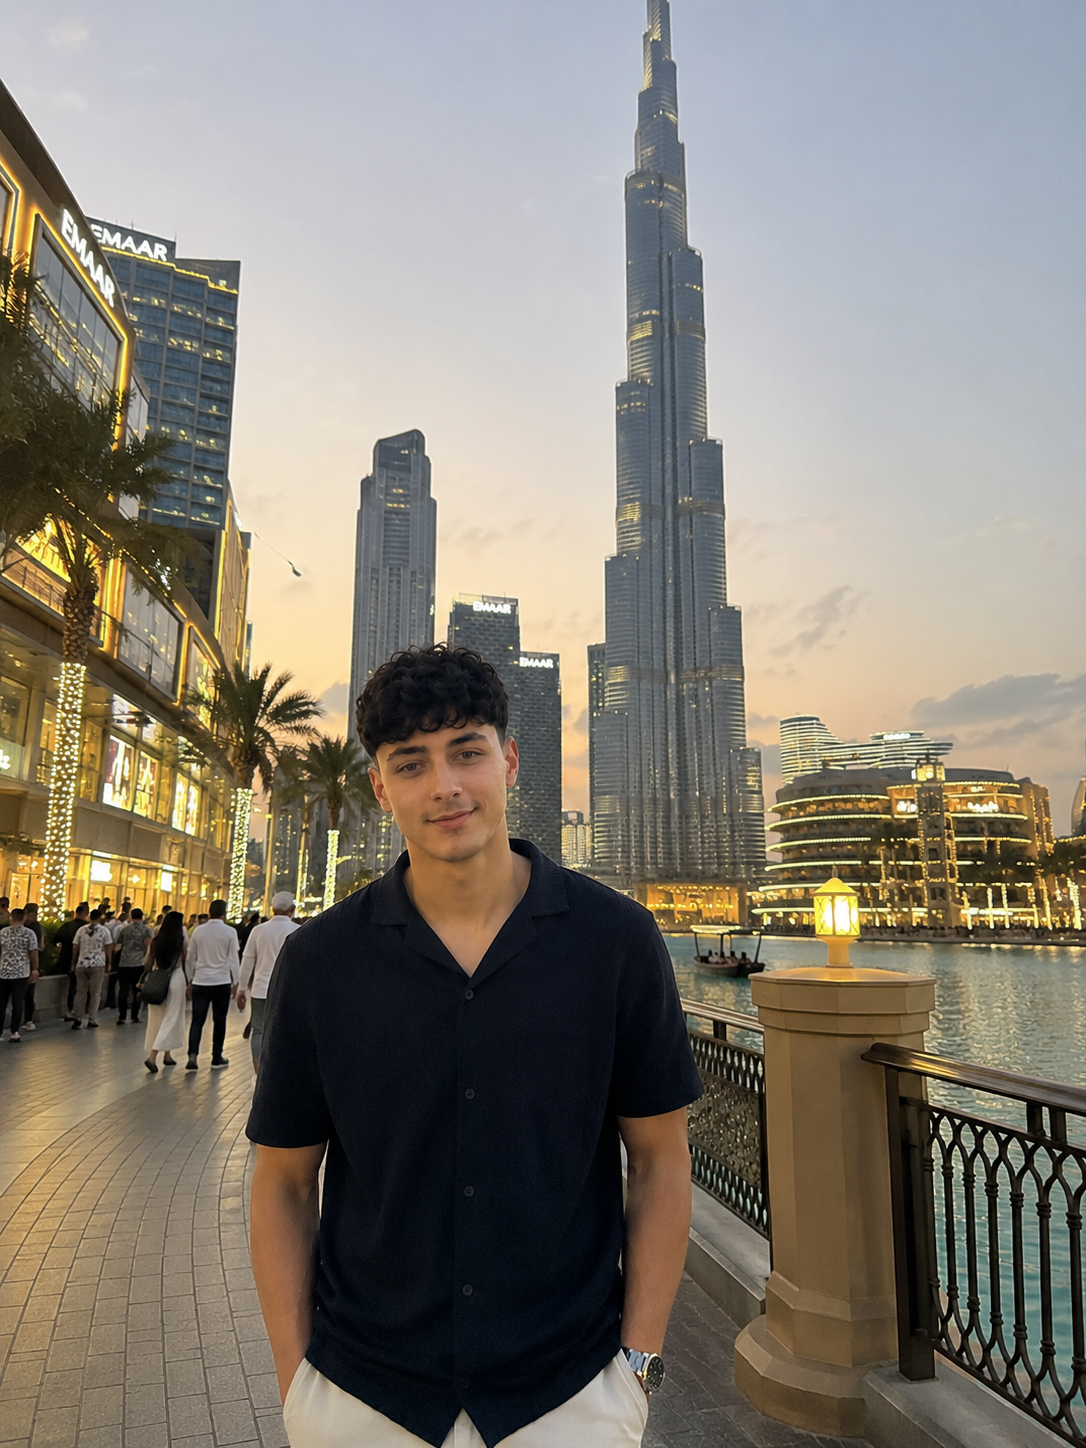
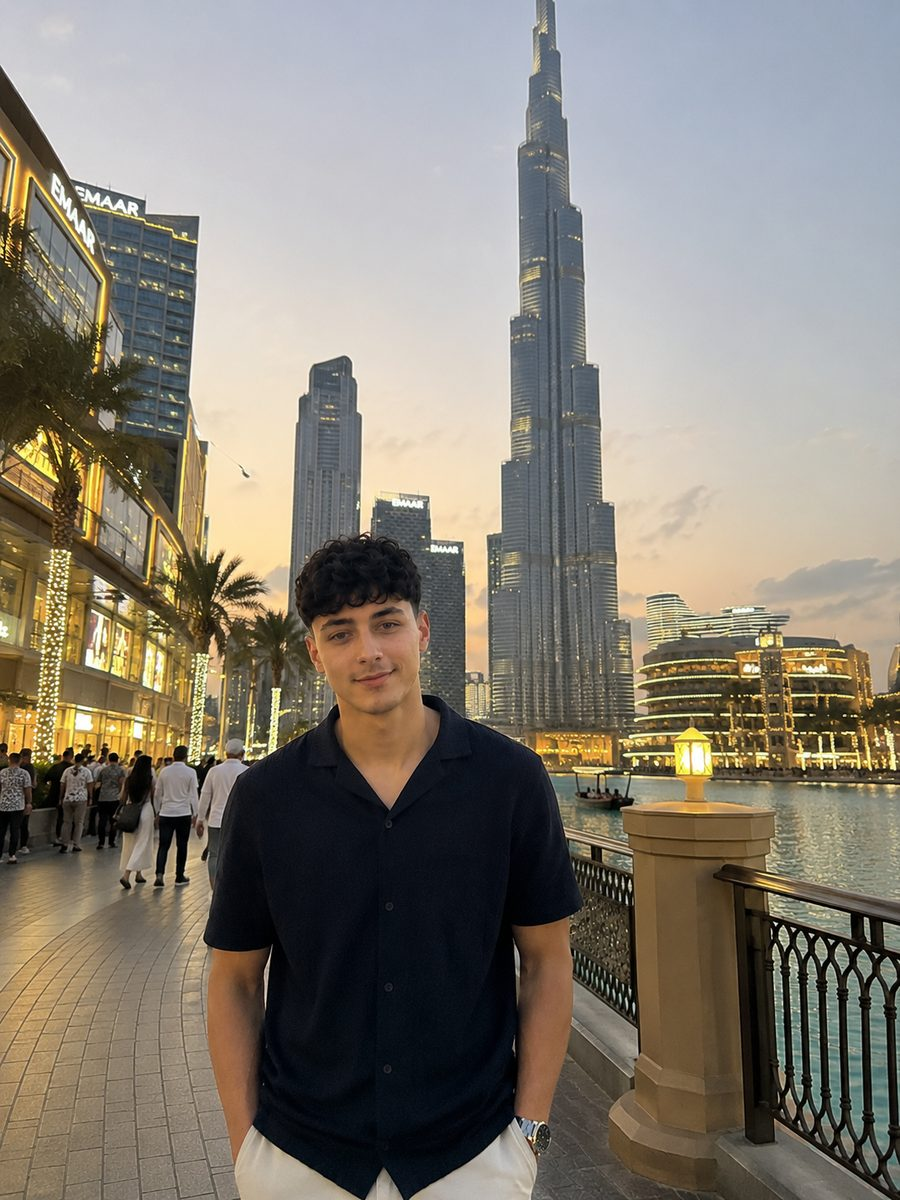
Sitemap und robots.txt; Datenschutz: Google-Anmeldung offengelegt; Team-Fotos optimiert; Versionskollision behoben
sitemap.xml (neu):
Sieben oeffentliche Seiten mit sauberen Adressen und den echten
Aenderungsdaten aus der Git-Historie. Nicht enthalten: /login,
/dashboard, /admin/, /mcs/ (interne Bereiche) sowie /impressum,
/datenschutz und /agb - diese tragen ein noindex im Kopf, und eine
Seite gleichzeitig anzumelden und auf noindex zu setzen meldet die
Search Console als Fehler.
Geprueft, dass die .htaccess-Regel, die ".html" anhaengt, die Datei
nicht anfasst - sie greift nur bei vorhandener .html-Datei.

robots.txt (neu): sperrt /admin/, /mcs/, /dashboard, /login und /api/
und verweist auf die Sitemap.

KORREKTUR an der Datenschutzerklaerung:
Beim Pruefen der .htaccess fiel auf, dass accounts.google.com erlaubt
ist. Nachgesehen: Auf der Anmeldeseite laeuft "Mit Google anmelden" mit
echter Client-ID, und das Google-Skript laedt bereits beim Aufruf der
Seite - auch ohne Klick. Google erhaelt dabei die IP-Adresse.
Meine Formulierung "ausser dem KI-Anbieter bekommt kein Dritter Daten"
war damit falsch. Behoben durch einen neuen Abschnitt 6 "Anmeldung mit
Google" und eine praezise Zusammenfassung in Abschnitt 8; im
Cookie-Hinweis ist die Aussage "keine Weitergabe an Dritte" gestrichen.
Per Messung belegt: Startseite und Preisseite kontaktieren keinen
Fremdanbieter, nur /login ruft accounts.google.com auf.
Ausserdem erlaubte die Sicherheitsregel weiterhin Google Fonts, obwohl
die Schrift lokal liegt - entfernt (font-src 'self').

Team-Fotos optimiert:
[…]

diff --git a/index.html b/index.html
@@ -6,7 +6,7 @@
   <title>masesites | Persönliche Websites &amp; KI-Bots aus der Schweiz</title>
   <meta name="description" content="masesites baut personalisierte, professionelle Websites für Firmen und Privatpersonen. Jede Branche, jeder Stil, auf Wunsch mit KI-Bot.">
   <link rel="icon" href="assets/img/favicon.svg" type="image/svg+xml">
-  <link rel="stylesheet" href="assets/css/style.css?v=48">
+  <link rel="stylesheet" href="assets/css/style.css?v=49">
 </head>
 <body>
   <script src="assets/js/sanft.js?v=1"></script>

diff --git a/preise.html b/preise.html
@@ -6,7 +6,7 @@
   <title>Preise | masesites</title>
   <meta name="description" content="Alle Preise auf einen Blick: neue Website ab CHF 750.-, Ueberarbeitung ab CHF 250.-, Webapp ab CHF 3500.-, KI-Assistent ab CHF 200.-. Feste Offerte vor Projektstart.">
   <link rel="icon" href="assets/img/favicon.svg" type="image/svg+xml">
-  <link rel="stylesheet" href="assets/css/style.css?v=48">
+  <link rel="stylesheet" href="assets/css/style.css?v=49">
   <link rel="stylesheet" href="assets/css/preisliste.css?v=3">
 </head>
 <body>

diff --git a/leistungen.html b/leistungen.html
@@ -5,7 +5,7 @@
   <meta name="viewport" content="width=device-width, initial-scale=1.0">
   <title>Leistungen – masesites</title>
   <meta name="description" content="Website, Überarbeitung, Webapp oder KI-Bot: Wähl eine Leistung und die Seite zeigt dir ihre Welt – mit Beispielen, Merkmalen und fixen Preisen.">
-  <link rel="stylesheet" href="assets/css/style.css?v=48">
+  <link rel="stylesheet" href="assets/css/style.css?v=49">
   <link rel="stylesheet" href="assets/css/leistungen.css?v=11">
 </head>
 <body>

diff --git a/ueber-uns.html b/ueber-uns.html
@@ -6,7 +6,7 @@
   <title>Über uns | masesites</title>
   <meta name="description" content="Die Menschen hinter deiner Website: masesites ist ein kleines Schweizer Team, das Websites für Firmen und Privatpersonen baut und designt.">
   <link rel="icon" href="assets/img/favicon.svg" type="image/svg+xml">
-  <link rel="stylesheet" href="assets/css/style.css?v=48">
+  <link rel="stylesheet" href="assets/css/style.css?v=49">
 </head>
 <body>
   <script src="assets/js/sanft.js?v=1"></script>

diff --git a/beispiele.html b/beispiele.html
@@ -6,7 +6,7 @@
   <title>Beispiele | masesites</title>
   <meta name="description" content="So kann deine Website aussehen: fünf Branchen, fünf komplett verschiedene Stile – vom dunklen Restaurant-Look bis zum cleanen Onlineshop. Live ausprobierbar auf der Startseite.">
   <link rel="icon" href="assets/img/favicon.svg" type="image/svg+xml">
-  <link rel="stylesheet" href="assets/css/style.css?v=48">
+  <link rel="stylesheet" href="assets/css/style.css?v=49">
 </head>
 <body>
 

diff --git a/kontakt.html b/kontakt.html
@@ -6,7 +6,7 @@
   <title>Kontakt | masesites</title>
   <meta name="description" content="Erzähl uns von deinem Projekt: Website, KI-Bot oder beides. Kurz beschreiben, was du brauchst, wir melden uns innert 24 Stunden.">
   <link rel="icon" href="assets/img/favicon.svg" type="image/svg+xml">
-  <link rel="stylesheet" href="assets/css/style.css?v=48">
+  <link rel="stylesheet" href="assets/css/style.css?v=49">
 </head>
 <body>
 

diff --git a/dashboard.html b/dashboard.html
@@ -7,7 +7,7 @@
   <meta name="description" content="Dein masesites-Kundenportal: Projekte, Tickets und Nachrichten an einem Ort.">
   <meta name="robots" content="noindex">
   <link rel="icon" href="assets/img/favicon.svg" type="image/svg+xml">
-  <link rel="stylesheet" href="assets/css/style.css?v=48">
+  <link rel="stylesheet" href="assets/css/style.css?v=49">
 </head>
 <body class="app kunde wartet" data-no-widget>
 

diff --git a/login.html b/login.html
@@ -7,7 +7,7 @@
   <meta name="description" content="Melde dich im masesites-Kundenbereich an: Projekte sehen, Stand deiner Website verfolgen, Tickets eröffnen.">
   <meta name="robots" content="noindex">
   <link rel="icon" href="assets/img/favicon.svg" type="image/svg+xml">
-  <link rel="stylesheet" href="assets/css/style.css?v=48">
+  <link rel="stylesheet" href="assets/css/style.css?v=49">
 </head>
 <body>
 

diff --git a/projekte.html b/projekte.html
@@ -6,7 +6,7 @@
   <title>Projekte | masesites</title>
   <meta name="description" content="Hier erscheinen die offiziellen Kundenprojekte von masesites. Dein Projekt könnte das erste sein.">
   <link rel="icon" href="assets/img/favicon.svg" type="image/svg+xml">
-  <link rel="stylesheet" href="assets/css/style.css?v=48">
+  <link rel="stylesheet" href="assets/css/style.css?v=49">
 </head>
 <body>
 

diff --git a/mcs/index.html b/mcs/index.html
@@ -6,7 +6,7 @@
   <title>Mitarbeiter-Portal | masesites</title>
   <meta name="robots" content="noindex, nofollow">
   <link rel="icon" href="../assets/img/favicon.svg" type="image/svg+xml">
-  <link rel="stylesheet" href="../assets/css/style.css?v=48">
+  <link rel="stylesheet" href="../assets/css/style.css?v=49">
 </head>
 <body class="app" data-no-widget>
 

diff --git a/admin/index.html b/admin/index.html
@@ -6,7 +6,7 @@
   <title>Admin | masesites</title>
   <meta name="robots" content="noindex, nofollow">
   <link rel="icon" href="../assets/img/favicon.svg" type="image/svg+xml">
-  <link rel="stylesheet" href="../assets/css/style.css?v=48">
+  <link rel="stylesheet" href="../assets/css/style.css?v=49">
 </head>
 <body class="app" data-no-widget>
 

diff --git a/datenschutz.html b/datenschutz.html
@@ -6,7 +6,7 @@
   <title>Datenschutz | masesites</title>
   <meta name="robots" content="noindex">
   <link rel="icon" href="assets/img/favicon.svg" type="image/svg+xml">
-  <link rel="stylesheet" href="assets/css/style.css?v=48">
+  <link rel="stylesheet" href="assets/css/style.css?v=49">
 </head>
 <body>
 
